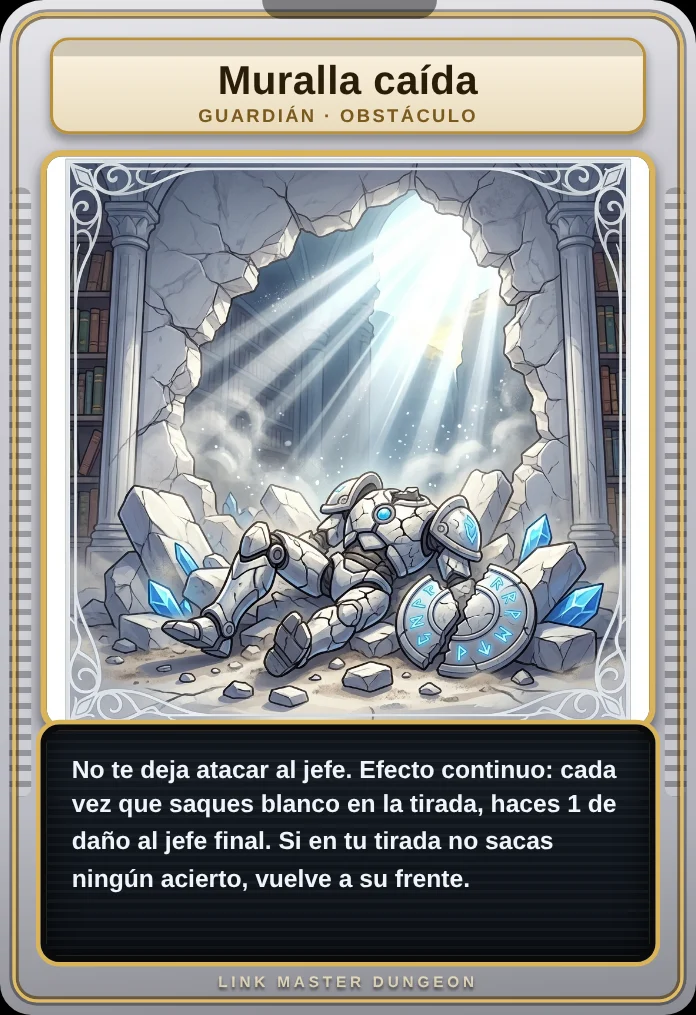
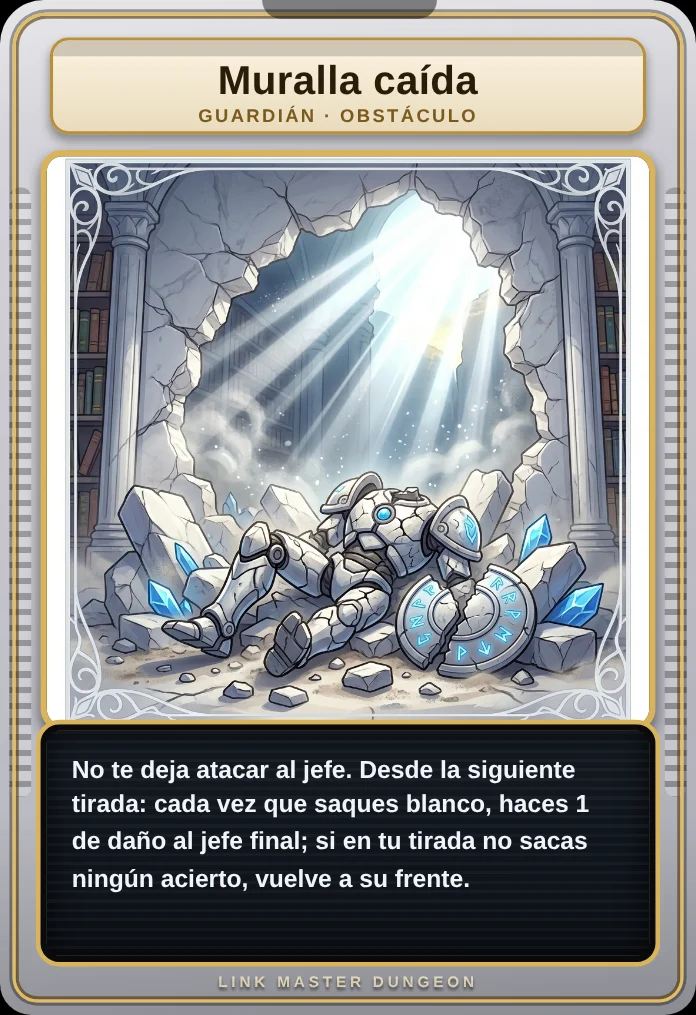
g05: su efecto solo actúa desde la siguiente tirada (ya no se voltea en la misma tirada en que vences al centinela)
Claude-Session: https://claude.ai/code/session_01SGPUyGANHi7UMmwxJVo2zu

Changed region(s): [[0.1207, 0.733, 0.875, 0.8552]]

diff --git a/index.html b/index.html
@@ -2277,6 +2277,7 @@ function discDraw(back,nd,cb,can){const sel=new Set();let mine=null;
     ov(null,mine,'<p>Elige las cartas a descartar</p>',1)};sh()}
 function resolve(h,nd){
   M18=0;MALL=0;const c=S.cross[B.i],lv=LV(c),id=c.id,bi=B.i;
+  const g5pre=S.cross.some(x=>x&&x.id==='g05'); /* g05 solo actúa si ya estaba volteado antes de esta tirada */
   const pfx=S.personaje||'m',fi=getFI();
   const m06b=B.act===p06()?2*fireDisc():0,add=Math.max(0,sumB()+h+m06b);B.p0=c.p;
   [B.act,...(COOP?[]:B.as)].filter(Boolean).forEach(x=>{if(x===p20()){S.hab=0;return}S.hand.splice(S.hand.indexOf(x),1);S.disc.push(x)});
@@ -2373,7 +2374,7 @@ function resolve(h,nd){
   if(win&&TY[id]==='C')S.cw=(S.cw||0)+1;
   if(win){if(id[0]!=='j')S.nc=(S.nc||0)+1;if(id[0]==='g')S.cross[B.i]={id:'g'+pad(+id.slice(1)+4),p:0};else if(id[0]==='j')S.over=1;else if(id==='t27'){S.apart.push(id);S.cross[B.i]=null}else{S.comp.push(id);S.cross[B.i]=null}}
   S.cross.forEach(y=>{if(y&&y.id==='t19')y.p+=2});
-  if(!(B.hraw??h)&&!nd)S.cross.forEach((x,k)=>{if(x&&x.id==='g05')S.cross[k]={id:'g01',p:0}});
+  if(g5pre&&!(B.hraw??h)&&!nd)S.cross.forEach((x,k)=>{if(x&&x.id==='g05')S.cross[k]={id:'g01',p:0}});
   B=null;$('#bt').classList.remove('on');$('#sh-st').classList.remove('on');render();
   fxStamp(win?(id[0]==='j'?'¡VICTORIA!':'¡COMPLETADO!'):'FALLASTE',win?'ok':'ko');if(win&&id[0]==='j'){confetti();whenFree(()=>showVictory('Derrotaste al jefe final.'));return}
   const R2=()=>res2(id,`<div class="pv">${win?(id[0]==='j'?'¡GANAS LA PARTIDA!':'¡Enfrentamiento completado!'):'No se completó'}</div><p>Cartas: +${add-h} · Dados: +${h}${win?'':` · Le quedan ${Math.max(0,lv-c.p)} PV`}</p><p>${win?'Recompensa:':'Penalización:'}</p>`,fx);
